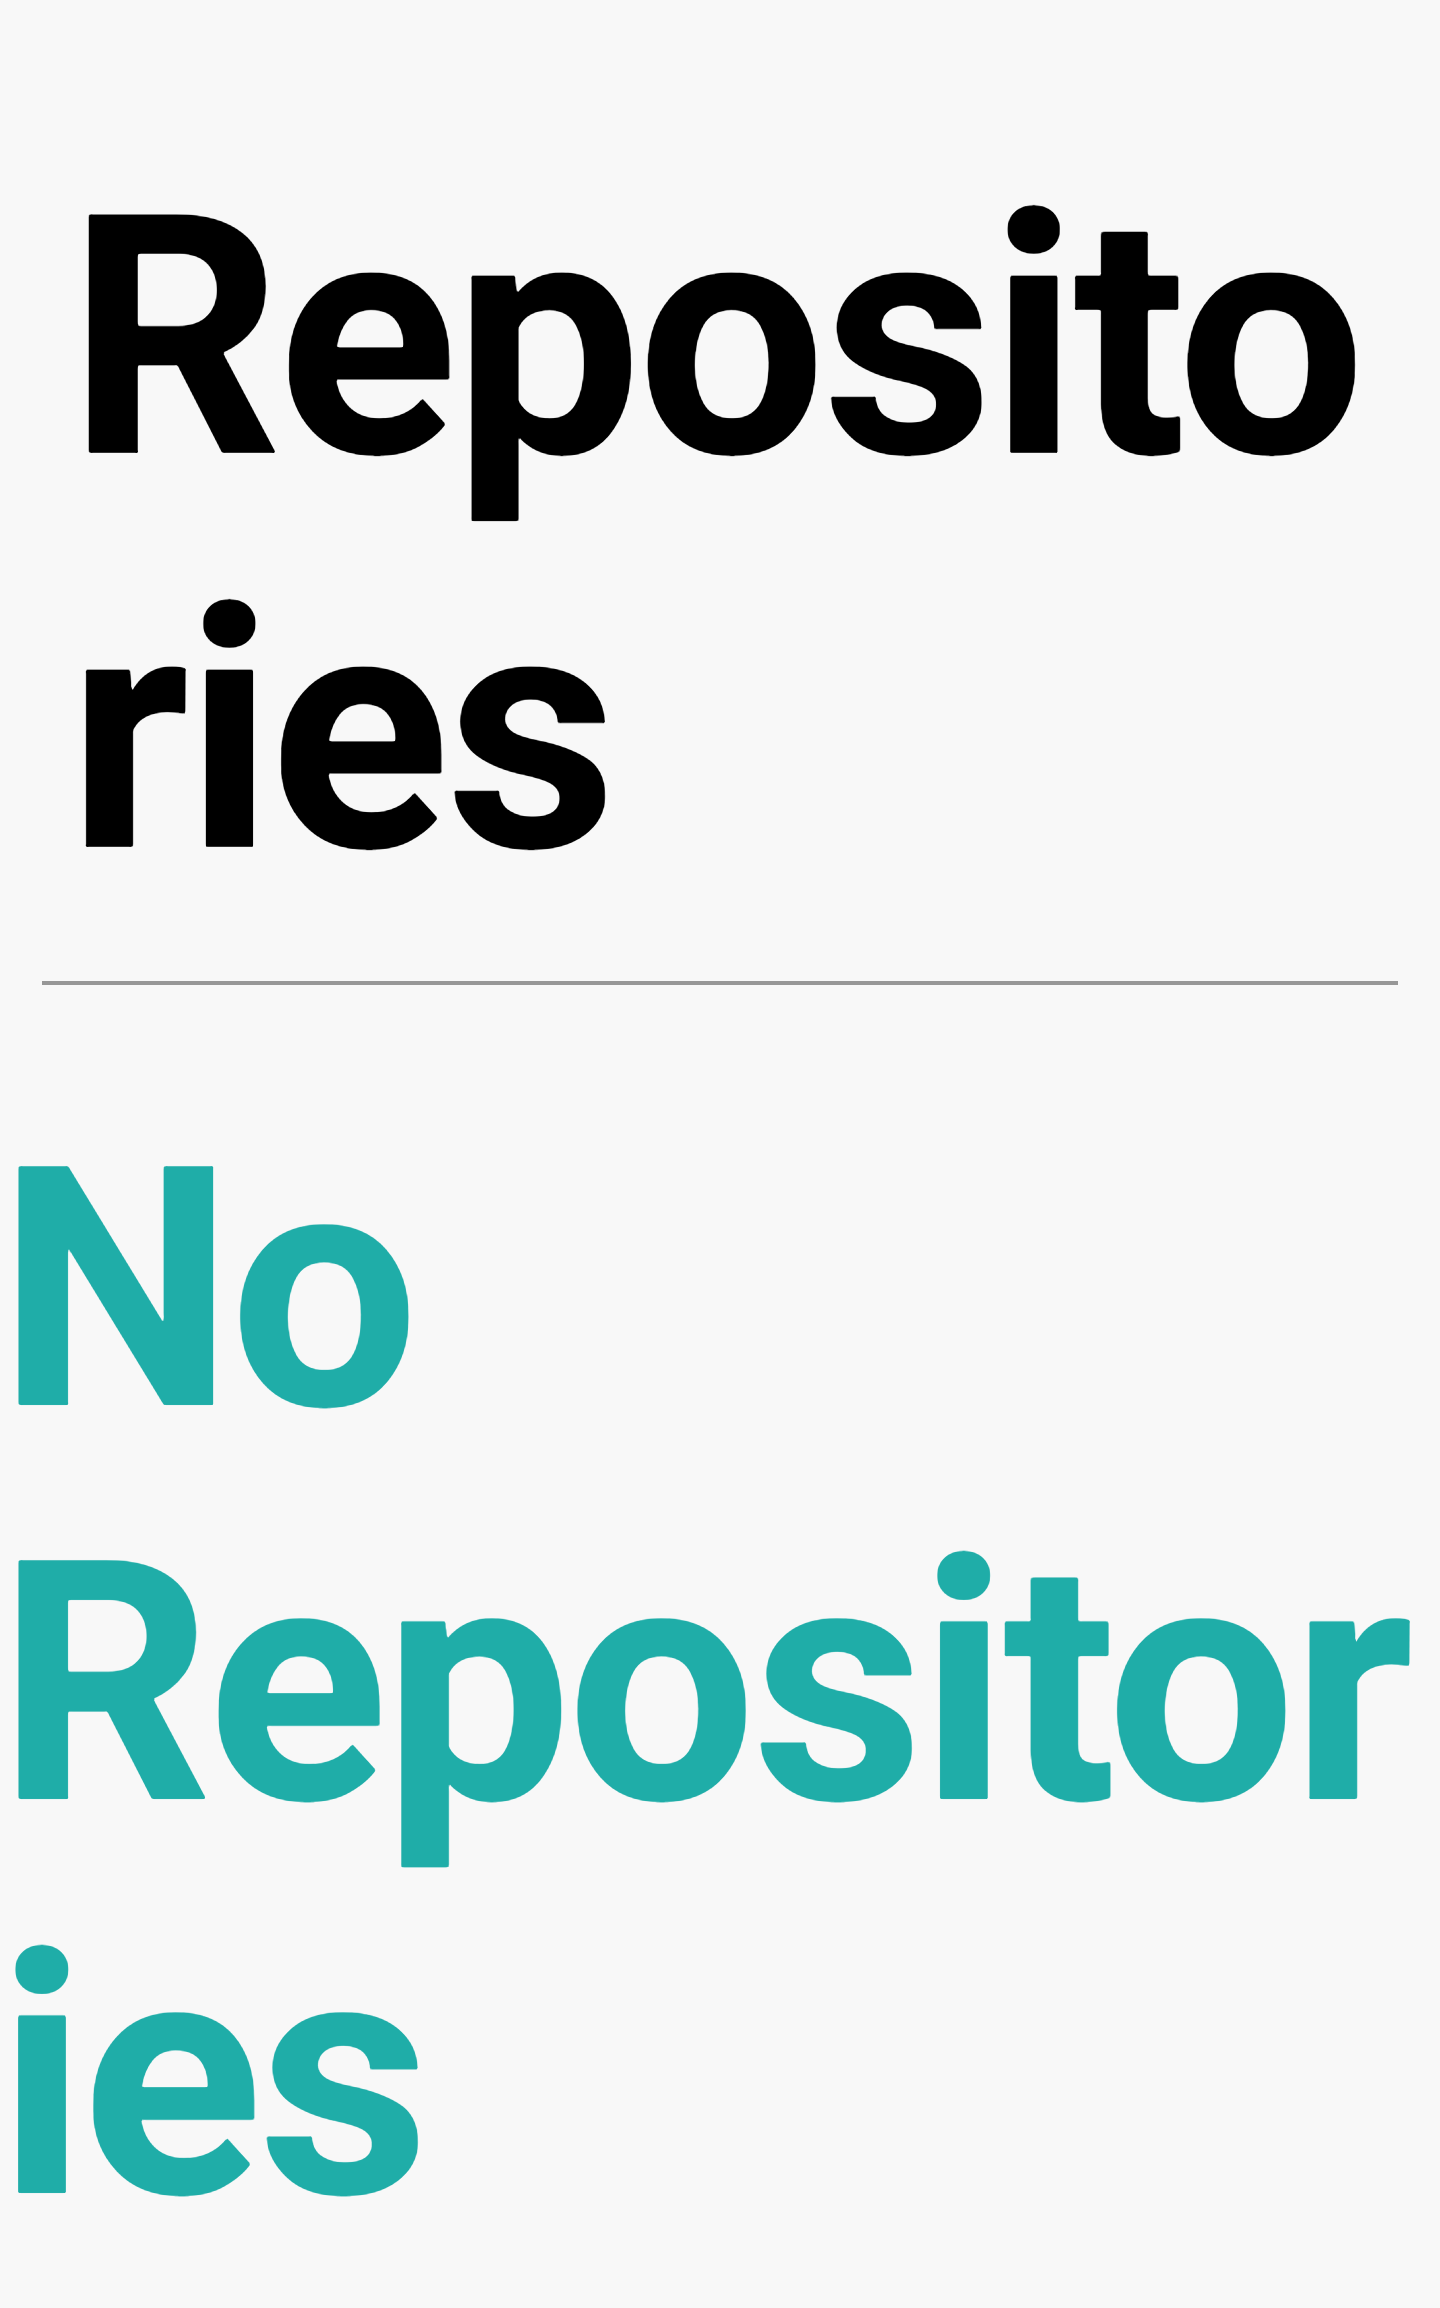
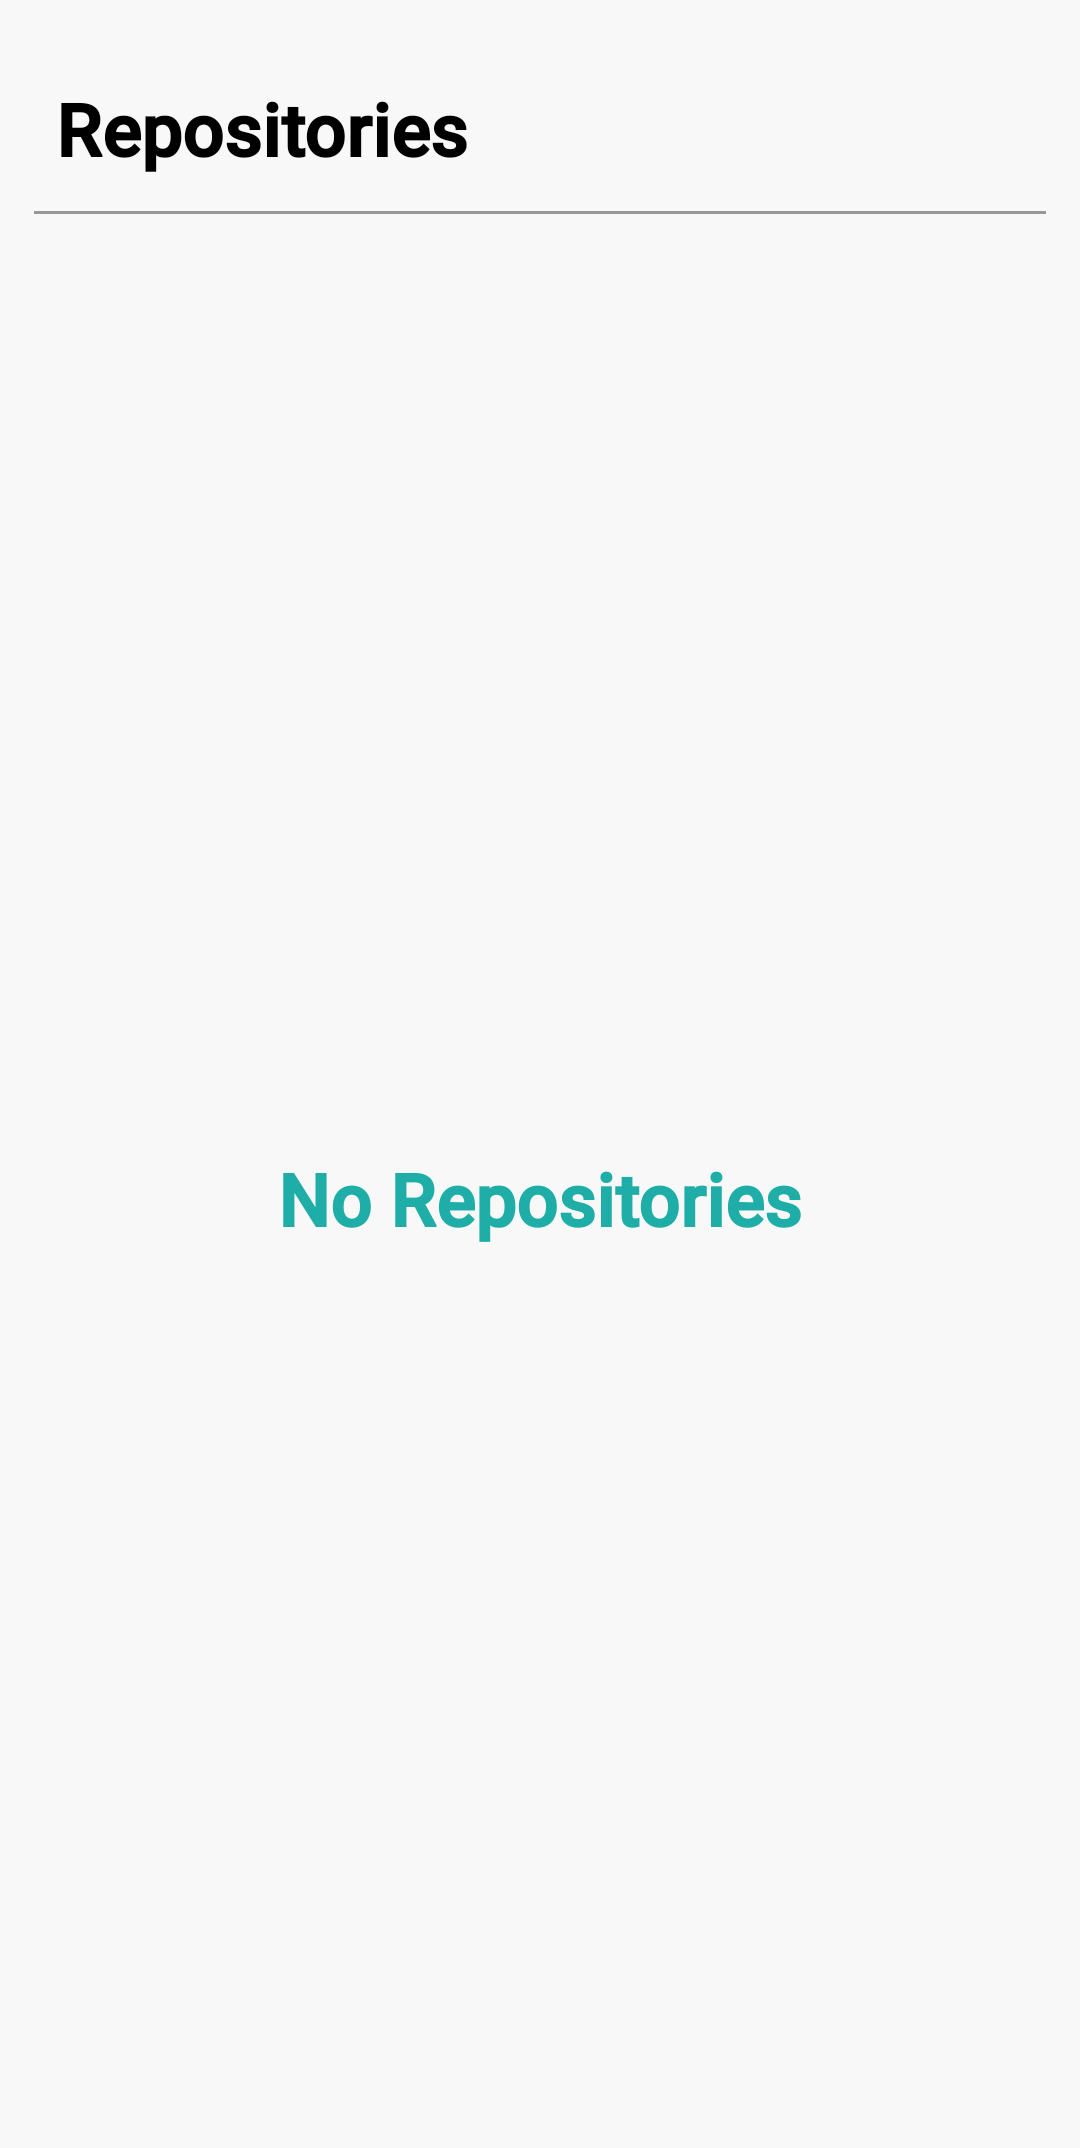
wrap renderComponent() in ArchitectureDemoTheme {} so screenshots have the correct theme

diff --git a/app/src/androidTest/java/com/bottlerocketstudios/brarchitecture/PullRequestScreenshotTest.kt b/app/src/androidTest/java/com/bottlerocketstudios/brarchitecture/PullRequestScreenshotTest.kt
@@ -5,6 +5,7 @@ import androidx.compose.ui.test.onRoot
 import com.bottlerocketstudios.compose.pullrequest.PullRequestItemState
 import com.bottlerocketstudios.compose.pullrequest.PullRequestScreen
 import com.bottlerocketstudios.compose.pullrequest.PullRequestScreenState
+import com.bottlerocketstudios.compose.resources.ArchitectureDemoTheme
 import com.bottlerocketstudios.compose.util.asMutableState
 import org.junit.Rule
 import org.junit.Test
@@ -26,7 +27,7 @@ class PullRequestScreenshotTest : BaseUIScreenshotTest() {
         compareScreenshot(composeRule.onRoot())
     }
 
-    fun renderComponent(state: PullRequestScreenState) { composeRule.setContent { PullRequestScreen(state) } }
+    fun renderComponent(state: PullRequestScreenState) { composeRule.setContent { ArchitectureDemoTheme { PullRequestScreen(state) } } }
 
     // todo move somewhere that both UI test and Compose Preview
     //  can share it instead of setting it twice.

diff --git a/app/src/androidTest/java/com/bottlerocketstudios/brarchitecture/HomeScreenUITest.kt b/app/src/androidTest/java/com/bottlerocketstudios/brarchitecture/HomeScreenUITest.kt
@@ -10,6 +10,7 @@ import com.bottlerocketstudios.brarchitecture.domain.models.Workspace
 import com.bottlerocketstudios.compose.home.HomeScreen
 import com.bottlerocketstudios.compose.home.HomeScreenState
 import com.bottlerocketstudios.compose.home.UserRepositoryUiModel
+import com.bottlerocketstudios.compose.resources.ArchitectureDemoTheme
 import com.bottlerocketstudios.compose.util.StringIdHelper
 import com.bottlerocketstudios.compose.util.asMutableState
 import org.junit.Rule
@@ -45,7 +46,7 @@ class HomeScreenUITest : BaseUIScreenshotTest() {
         compareScreenshot(composeRule.onRoot())
     }
 
-    fun renderComponent(state: HomeScreenState) { composeRule.setContent { HomeScreen(state) } }
+    fun renderComponent(state: HomeScreenState) { composeRule.setContent { ArchitectureDemoTheme { HomeScreen(state) } } }
 
     // todo move somewhere that both UI test and Compose Preview
     //  can share it instead of setting it twice.

diff --git a/app/src/androidTest/java/com/bottlerocketstudios/brarchitecture/BaseUIScreenshotTest.kt b/app/src/androidTest/java/com/bottlerocketstudios/brarchitecture/BaseUIScreenshotTest.kt
@@ -8,6 +8,5 @@ import com.karumi.shot.ScreenshotTest
  * Please see the Confluence page for setup, troubleshooting and more information on Compose UI x Karumi screenshot testing.
  *
  * https://confluence.bottlerocketapps.com/display/BKB/Screenshot+Testing%3A+Compose+UI+x+Karumi
- *
  */
 open class BaseUIScreenshotTest : ScreenshotTest
